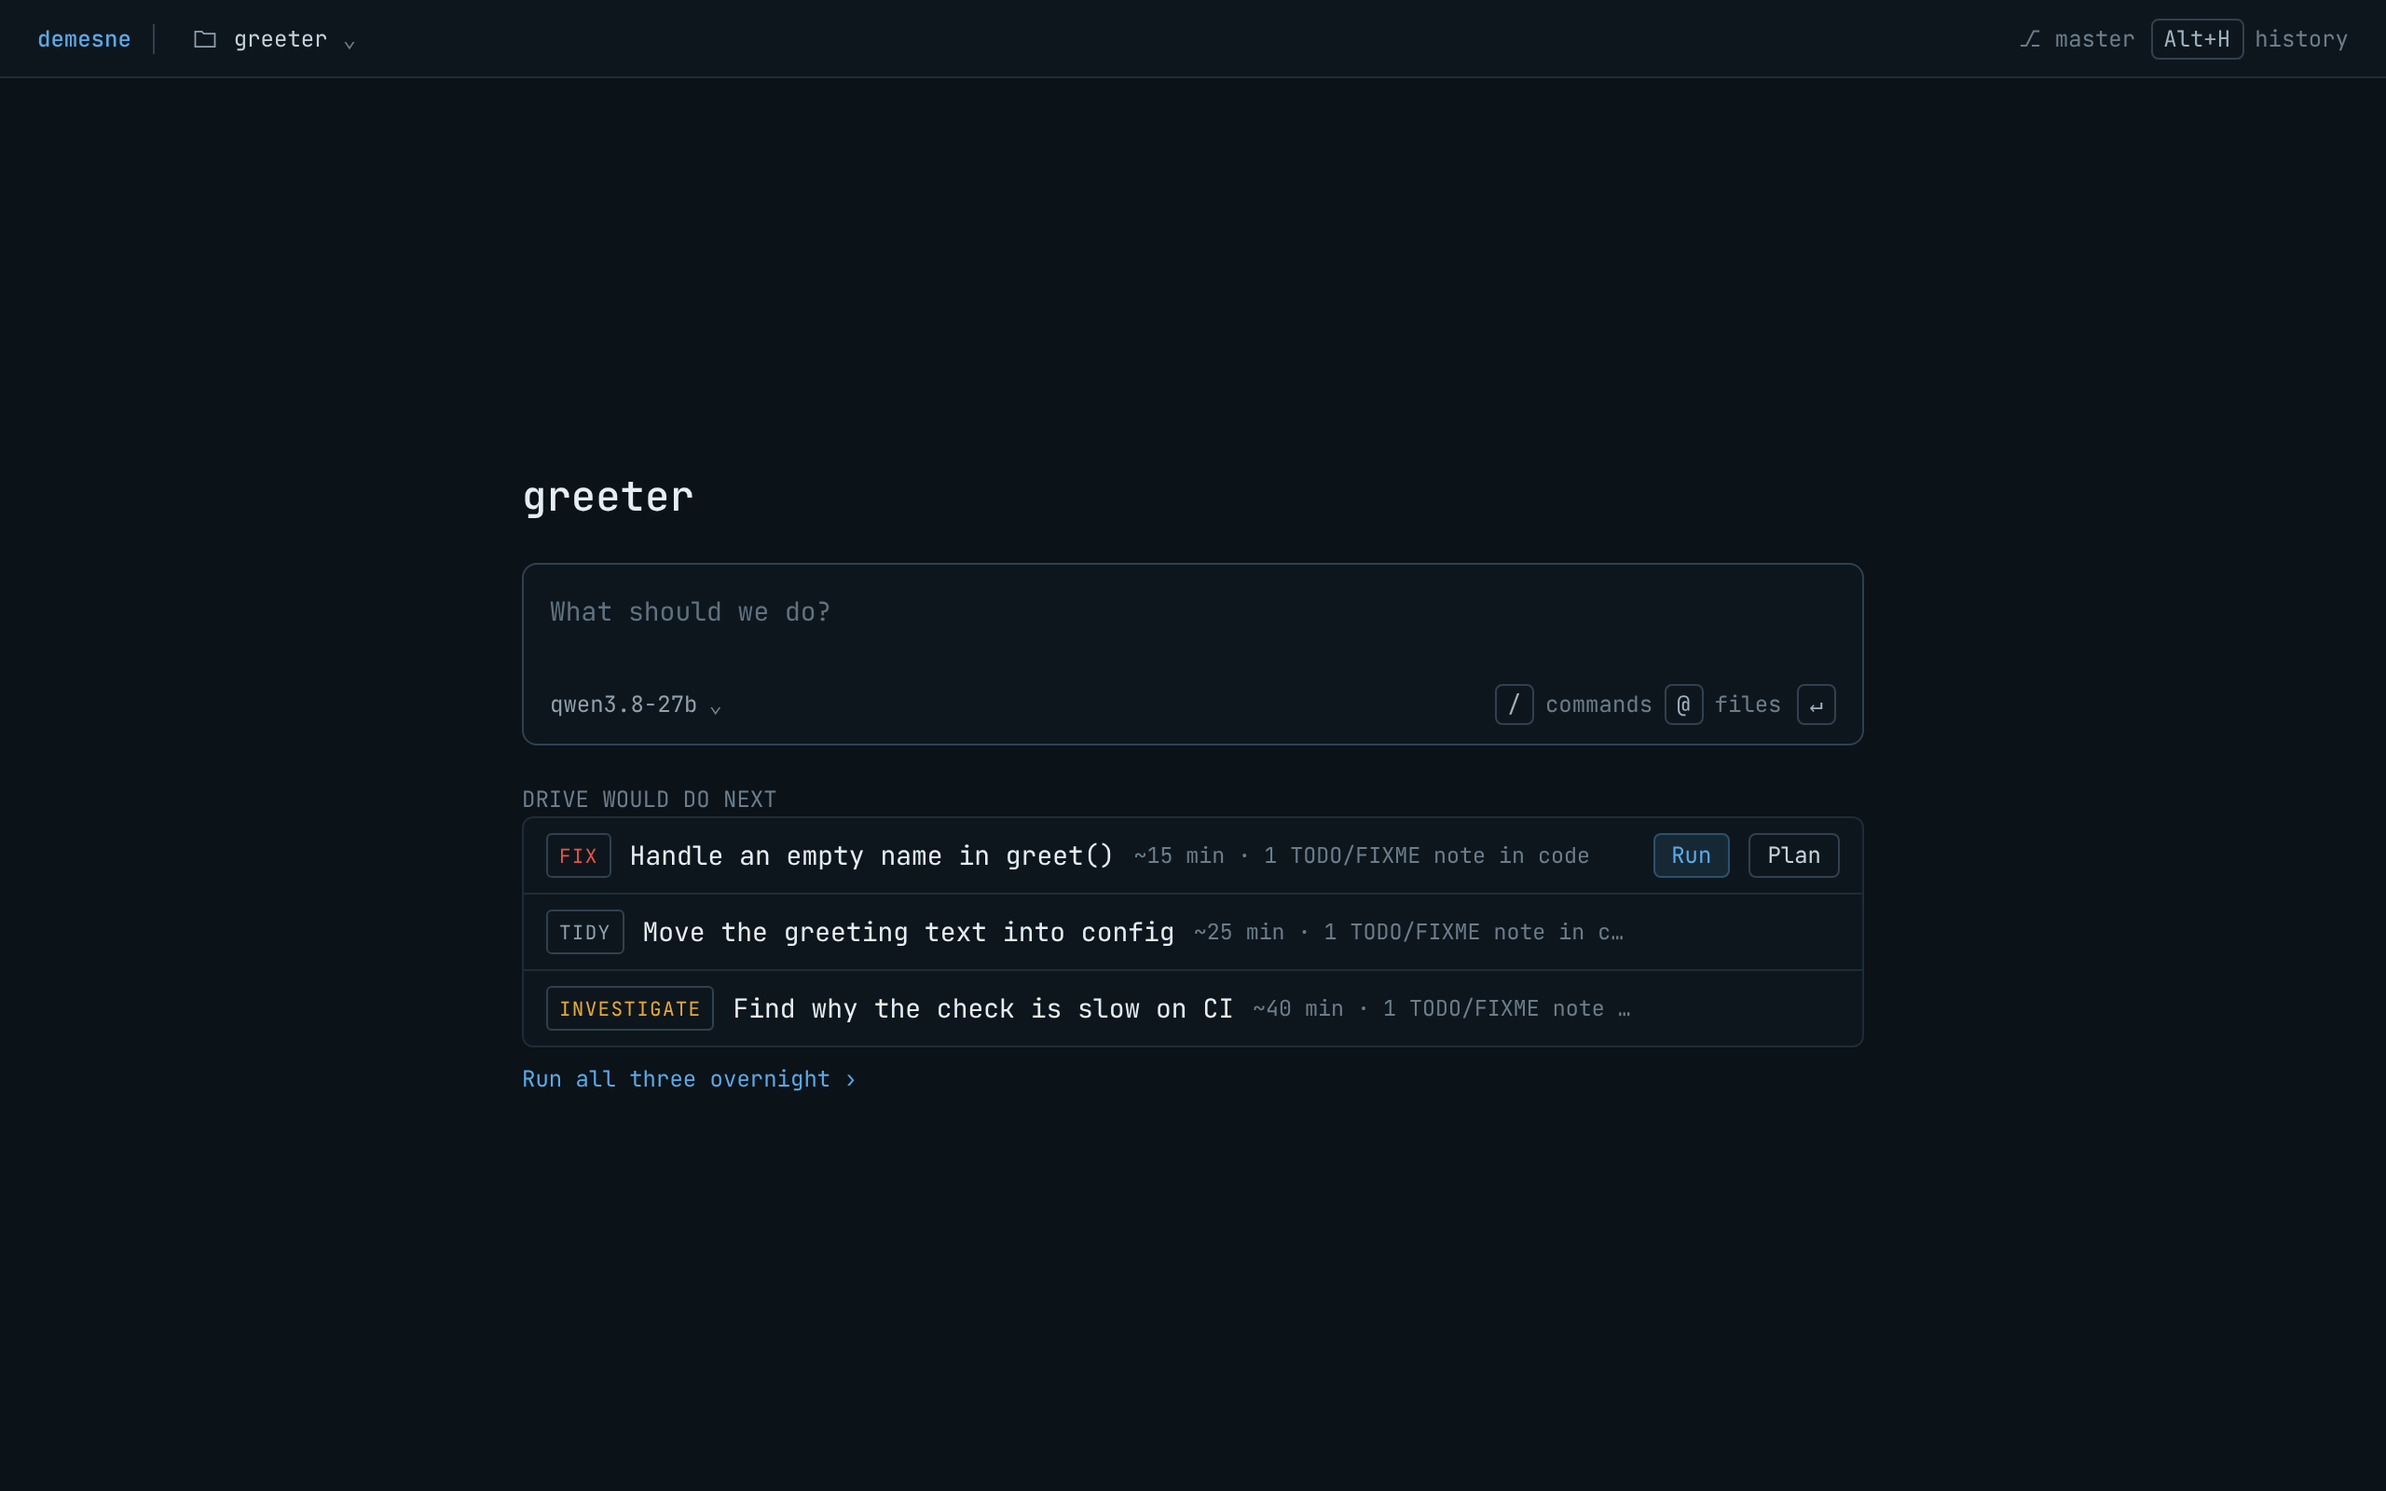
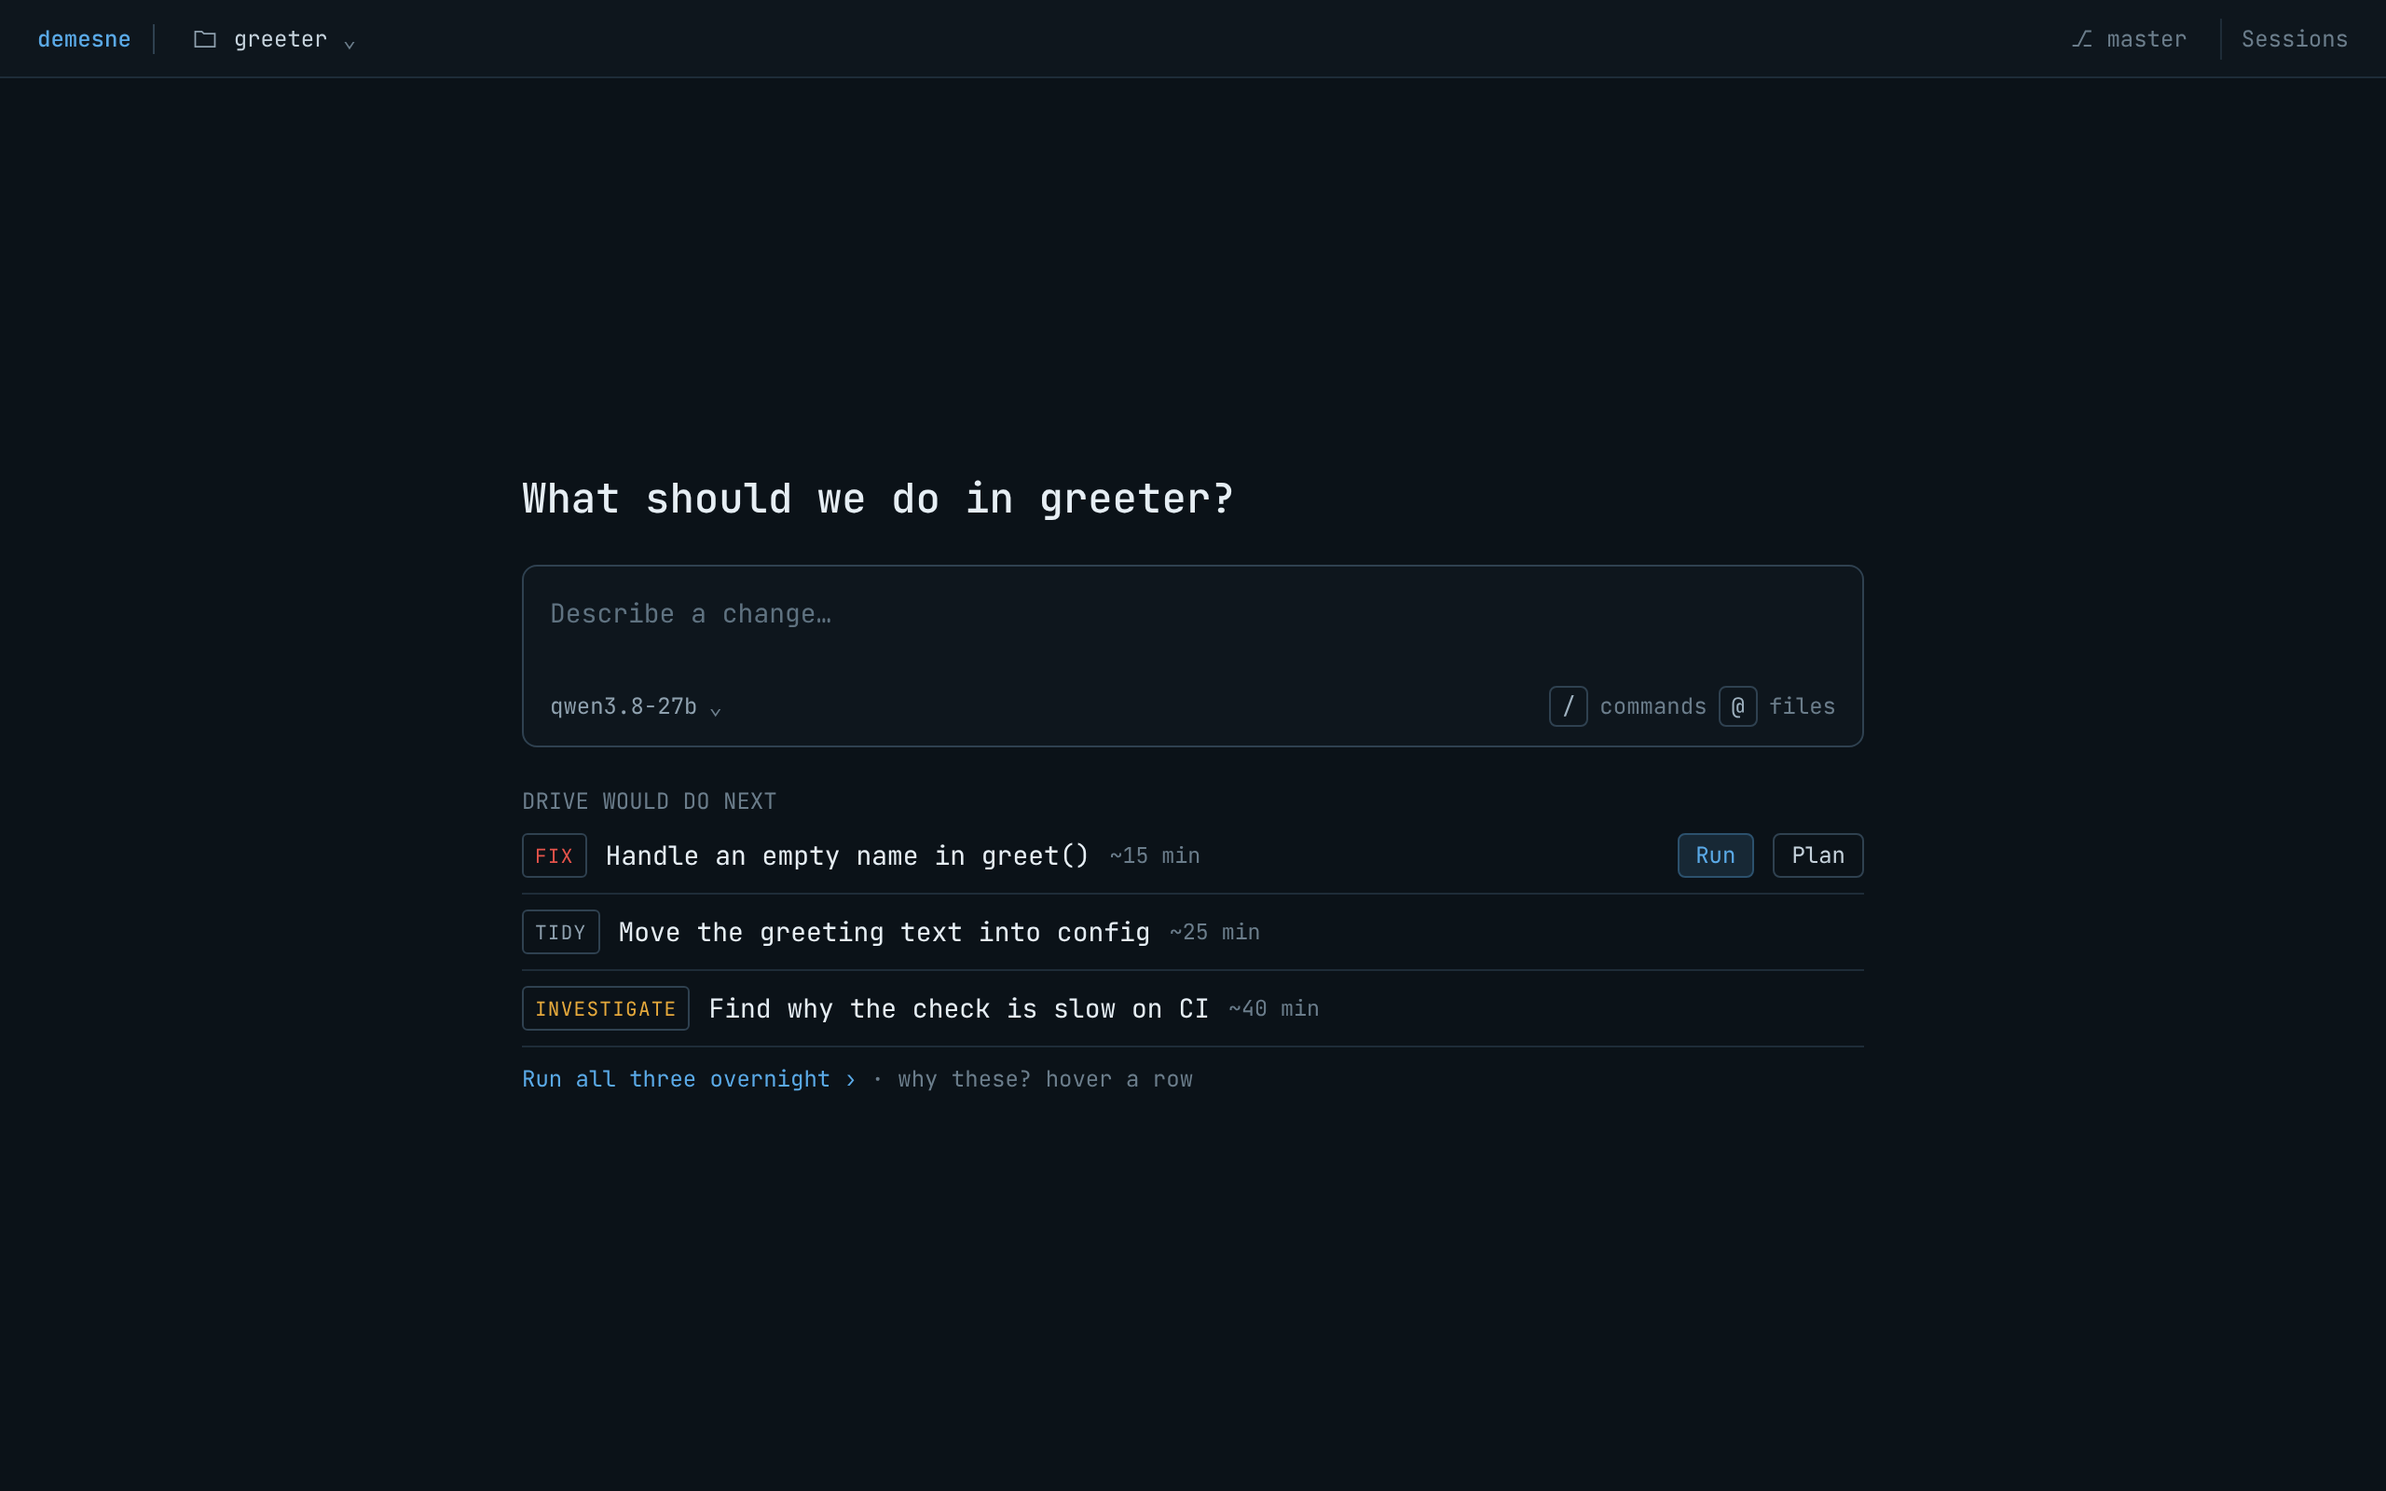
Desktop: tidy the start screen, keep Drive running while you type, drop stale drafts quietly (#176)
The start screen asks "What should we do in <project>?" over a composer
that suggests picking one of Drive's ideas. Its proposal rows are unboxed,
split by hairlines, and show kind, title and estimate; the reason and
evidence move to the row's hover title, with "why these? hover a row" in
the footer. The top bar's Alt+H chip becomes the word Sessions, and the
start composer shows ↵ only once there is something to send.

Typing in the composer no longer sends "manual" to the host, so opening
the slash list or starting a message leaves Drive running; sending the
message is what takes over, as the host already does on submit.

A draft saved for a session that is no longer current (a workflow or
mission that just switched sessions) is dropped instead of raising "The
session changed. Try the action again." The screenshot harness now fails
on that notice after starting a workflow, and a host test covers the drop.

Claude-Session: https://claude.ai/code/session_01FxJESQV42oJdMYTcKAmhzi

diff --git a/apps/graphics/live.ts b/apps/graphics/live.ts
@@ -402,7 +402,7 @@ function renderStatus() {
           ? `<button type="button" id="drive-word" class="${drivePopOpen || pane === "drive" ? "active" : ""}" data-action="drive-pop" aria-haspopup="dialog" aria-expanded="${drivePopOpen}">Drive${word.needs ? `<b class="count" aria-label="${word.needs} need you">${word.needs}</b>` : word.live ? '<i class="live" aria-label="working"></i>' : ""}</button>`
           : `<button type="button" class="${(place.views as readonly string[]).includes(pane ?? "") ? "active" : ""}" data-action="panel" data-args="${h(JSON.stringify({ name: place.name }))}" data-drive="panel-${place.name}">${place.label}</button>`,
       ).join("")}</nav>`
-    : btn("panel", `${k("Alt+H")} history`, { name: "history" }, "key-action", true);
+    : btn("panel", "Sessions", { name: "history" }, "sessions-word", true).replace("<button ", '<button title="Past sessions (Alt+H)" ');
   el("header").innerHTML =
     `<div class="header-state">${state.session?.workspace?.gitBranch ? `<span>⎇ ${h(state.session.workspace.gitBranch)}</span>` : ""}${state.session?.autoApprove ? btn("overlay", "Auto-approve", { name: "settings" }, "pill auto-approve") : ""}${state.activeTurnId || state.approvals.length ? `<span class="pill ${state.approvals.length ? "approval" : "running"}">${state.approvals.length ? "approval" : "running"}</span>` : ""}</div>${places}`;
 }
@@ -794,11 +794,12 @@ function renderHero() {
   const footer = [
     top.length && !driveBusy ? btn("next-away", `Run ${words[top.length]} overnight ›`, { count: top.length }, "link", true).replace("<button ", `<button title="Run ${top.length === 1 ? "it" : "them"} one after another while you're away, each in its own worktree. They wait for your review." `) : "",
     next.proposals.length > 3 ? btn("panel", `${next.proposals.length - 3} more in Drive`, { name: "drive" }, "", true) : "",
+    top.length ? '<span class="muted">why these? hover a row</span>' : "",
   ].filter(Boolean).join('<span class="muted"> · </span>');
   el("hero").innerHTML =
-    `<div class="intro"><h1>${h(name)}</h1>${waiting}</div><div id="hero-composer"></div>${
-      // Drive's Next queue, ready when you open demesne: the top three, each
-      // with the evidence it rests on; the full queue is in the Drive panel.
+    `<div class="intro"><h1>What should we do in ${h(name)}?</h1>${waiting}</div><div id="hero-composer"></div>${
+      // Drive's Next queue, ready when you open demesne: the top three, with
+      // the reason and evidence on hover; the full queue is in the Drive panel.
       top.length
         ? `<section class="proposals"><h2>DRIVE WOULD DO NEXT</h2>${proposalRows(top)}${footer ? `<p class="proposals-footer">${footer}</p>` : ""}</section>`
         : ""
@@ -806,8 +807,8 @@ function renderHero() {
   // The composer is detached while the hero is rebuilt.
   el("hero-composer").append(composer);
 }
-/// Drive's proposals as rows: kind, title, estimate and the evidence it rests
-/// on, with Run and Plan. The start screen shows three; a session's briefing
+/// Drive's proposals as rows: kind, title and estimate, with Run and Plan. The
+/// reason and the evidence it rests on show on hover. The start screen shows three; a session's briefing
 /// line unfolds them in place.
 function proposalRows(items: Snapshot["driveNext"]["proposals"]) {
   const signal = new Map(state!.driveNext.signals.map((item) => [item.id, item]));
@@ -815,7 +816,8 @@ function proposalRows(items: Snapshot["driveNext"]["proposals"]) {
   return `<div class="proposal-list">${items
     .map((item) => {
       const evidence = item.evidence.map((id) => signal.get(id)?.title).find(Boolean);
-      return `<div class="proposal-row"><span class="next-kind kind-${item.kind}">${item.kind.toUpperCase()}</span><b title="${h(item.why)}">${h(item.title)}</b><small>~${minutes(item.expectedMinutes ?? item.minutes)}${evidence ? ` · ${h(evidence)}` : ""}</small>${btn("next-run", "Run", { id: item.id }, "primary", true)}${btn("next-plan", "Plan", { id: item.id })}</div>`;
+      const why = [item.why, evidence && `Evidence: ${evidence}`].filter(Boolean).join("\n");
+      return `<div class="proposal-row" title="${h(why)}"><span class="next-kind kind-${item.kind}">${item.kind.toUpperCase()}</span><b>${h(item.title)}</b><small>~${minutes(item.expectedMinutes ?? item.minutes)}</small>${btn("next-run", "Run", { id: item.id }, "primary", true)}${btn("next-plan", "Plan", { id: item.id })}</div>`;
     })
     .join("")}</div>`;
 }
@@ -912,7 +914,7 @@ function renderComposer() {
     ? state.activeTurnId
       ? state.queue.trim() ? "Queue another follow-up…" : "Queue a follow-up…"
       : suggestion ? `${suggestion}   ⇥ Tab` : "Continue the conversation…"
-    : "What should we do?";
+    : state.driveNext.proposals.length ? "Describe a change, or pick one of Drive's ideas…" : "Describe a change…";
   editor.disabled =
     state.connection !== "online" ||
     state.busy ||
@@ -920,14 +922,15 @@ function renderComposer() {
     Boolean(answered);
   // Like the terminal: no stop hint while running (Esc Esc still stops; only
   // the armed confirmation shows). In a session, an empty composer shows
-  // / and @, and a draft shows ↵ send instead. The start screen keeps both.
+  // / and @, and a draft shows ↵ send instead. The start screen keeps / and
+  // @ and adds ↵ once there is something to send.
   const armed = Date.now() < stopArmed;
   const draft = Boolean(editor.value.trim()), session = inSession();
   // While a turn runs the send button is Stop; Enter queues what you type.
   el("send-label").innerHTML = question ? "answer" : state.activeTurnId
     ? armed ? `Press ${k("Esc")} again to stop` : `${draft ? `<span class="queue-hint">${k("Enter")} ${asking ? "send instead" : "queue"}</span>` : ""}<span class="stop-word">■ Stop</span>`
     : "send";
-  form.querySelector<HTMLElement>(".send")!.hidden = question ? !draft : state.activeTurnId ? false : session && !draft;
+  form.querySelector<HTMLElement>(".send")!.hidden = question ? !draft : state.activeTurnId ? false : !draft;
   form.querySelector<HTMLElement>(".hints")!.hidden = Boolean(state.activeTurnId) || (session && draft);
   (form.querySelector(".send") as HTMLButtonElement).disabled =
     state.connection !== "online" || state.busy || answeringQuestion;
@@ -2886,10 +2889,8 @@ function changedDraft() {
       .catch(()=>{}),60);
     reportObservation();return;
   }
-  // Writing in the composer is what takes over from Drive; clicking,
-  // navigating and reading panels leave it running.
-  if (state?.drive && ["running", "waiting"].includes(state.drive.status))
-    void api("manual");
+  // Typing leaves Drive running (a "/" to look at commands is not a
+  // takeover); sending the message is what takes over, in the host.
   completionDismissed = false;
   completionAll = false;
   completionIndex = 0;

diff --git a/scripts/shoot-desktop.ts b/scripts/shoot-desktop.ts
@@ -147,7 +147,8 @@ const server = Bun.serve({
 const browser = await chromium.launch(process.env.CHROMIUM ? { executablePath: process.env.CHROMIUM } : {});
 const theme = (process.env.THEME ?? "dark") as "dark" | "light";
 const page = await browser.newPage({ viewport: readme ? { width: 1280, height: 800 } : { width: 1440, height: 900 }, deviceScaleFactor: 2, colorScheme: theme });
-page.on("pageerror", (error: Error) => console.error("page:", error.message));
+const pageErrors: string[] = [];
+page.on("pageerror", (error: Error) => { pageErrors.push(error.message); console.error("page:", error.message); });
 await page.goto(server.url.href);
 await page.waitForSelector("#app:not([hidden])", { timeout: 30_000 });
 await page.waitForTimeout(3000);
@@ -212,10 +213,20 @@ for (const name of readme ? ["changes"] : ["changes", "files", "history"]) {
 if (!readme) {
   // A workflow running as a Drive mission: the conversation's newest turn.
   await page.locator(".header-nav button.active").click().catch(() => {});
+  // Starting a workflow switches sessions; nothing may fail or leave a
+  // stray "The session changed" notice behind.
+  const before = pageErrors.length;
+  await page.evaluate(() => {
+    const notes: string[] = ((window as unknown as { notices: string[] }).notices = []);
+    const notice = document.getElementById("notice")!;
+    new MutationObserver(() => { if (!notice.hidden) notes.push(notice.textContent ?? ""); }).observe(notice, { attributes: true, childList: true, characterData: true, subtree: true });
+  });
   await page.fill("textarea", "/fix-bug Handle an empty name in greet()"); await page.keyboard.press("Enter");
   for (let i = 0; i < 20 && !(await page.locator("#drive-turn:not([hidden])").count()); i++) await page.waitForTimeout(500);
   await page.waitForTimeout(1500);
   await shot("04-drive-live");
+  const stray = [...(await page.evaluate(() => (window as unknown as { notices: string[] }).notices)), ...pageErrors.slice(before)].filter((text) => text.includes("session changed"));
+  if (stray.length) throw new Error(`Stray error after starting a workflow: ${stray.join(" | ")}`);
 }
 await browser.close();
 host.kill(); server.stop(true); await f.close(); rmSync(web, { recursive: true, force: true });

diff --git a/apps/graphics/host.ts b/apps/graphics/host.ts
@@ -999,6 +999,10 @@ export class GraphicsHost {
       "setup",
       "setup-action",
     ]);
+    // A draft saved for a session that is no longer current (a workflow or
+    // mission that just switched sessions, a keystroke racing a switch) has
+    // nowhere to go; dropping it is not an error worth a notice.
+    if (method === "draft" && args.sessionId !== this.current?.session.id) return;
     if (!globals.has(method) && args.sessionId !== this.current?.session.id)
       throw new Error("The session changed. Try the action again.");
     if (method === "auto-approve") {
@@ -1102,8 +1106,8 @@ export class GraphicsHost {
       return;
     }
     const driven = this.drive?.authorize(method, args);
-    // Only the person writing or sending a message takes over from Drive
-    // ("manual" is the renderer's signal that the composer draft changed).
+    // Only the person sending a message takes over from Drive ("manual" is
+    // kept for callers that take over explicitly; typing no longer sends it).
     // Clicking, navigating, opening panels and reading leave it running.
     if (!driven && ["manual", "submit", "plan-submit", "themefy"].includes(method)) {
       this.onManual?.();

diff --git a/apps/graphics/live.css b/apps/graphics/live.css
@@ -3737,3 +3737,30 @@ button.away-title:hover, button.away-title.open { color: var(--electric); text-d
 }
 .review-heading .review-scope-button.branch { color: var(--paper); }
 #drive-turn .drive-pinned-title { display: none; }
+
+/* The start screen's proposals sit unboxed under the composer, split by
+   hairlines; the reason and evidence show on hover. */
+#hero .proposal-list {
+  border: 0;
+  background: none;
+  border-radius: 0;
+}
+#hero .proposal-row {
+  padding: 8px 0;
+  border-bottom: 1px solid var(--rule);
+}
+#hero .proposal-row + .proposal-row {
+  border-top: 0;
+}
+#hero .proposal-row small {
+  flex: 1 1 0;
+}
+#header .sessions-word {
+  color: var(--muted);
+  padding-left: 10px;
+  margin-left: 10px;
+  border-left: 1px solid var(--rule);
+}
+#header .sessions-word:hover {
+  color: var(--paper);
+}

diff --git a/apps/graphics/test/host.test.ts b/apps/graphics/test/host.test.ts
@@ -203,6 +203,9 @@ test("session switch failure preserves the event stream and stale actions cannot
     await expect(
       host.handle("submit", { sessionId: first, text: "wrong session" }),
     ).rejects.toThrow("session changed");
+    // A draft for the old session is dropped quietly, not reported.
+    await host.handle("draft", { sessionId: first, text: "stale draft" });
+    expect(host.snapshot().draft).toBe("");
     expect(host.current!.session.turns).toHaveLength(0);
     expect(JSON.stringify(host.snapshot())).not.toContain(
       "graphics-test-token",
